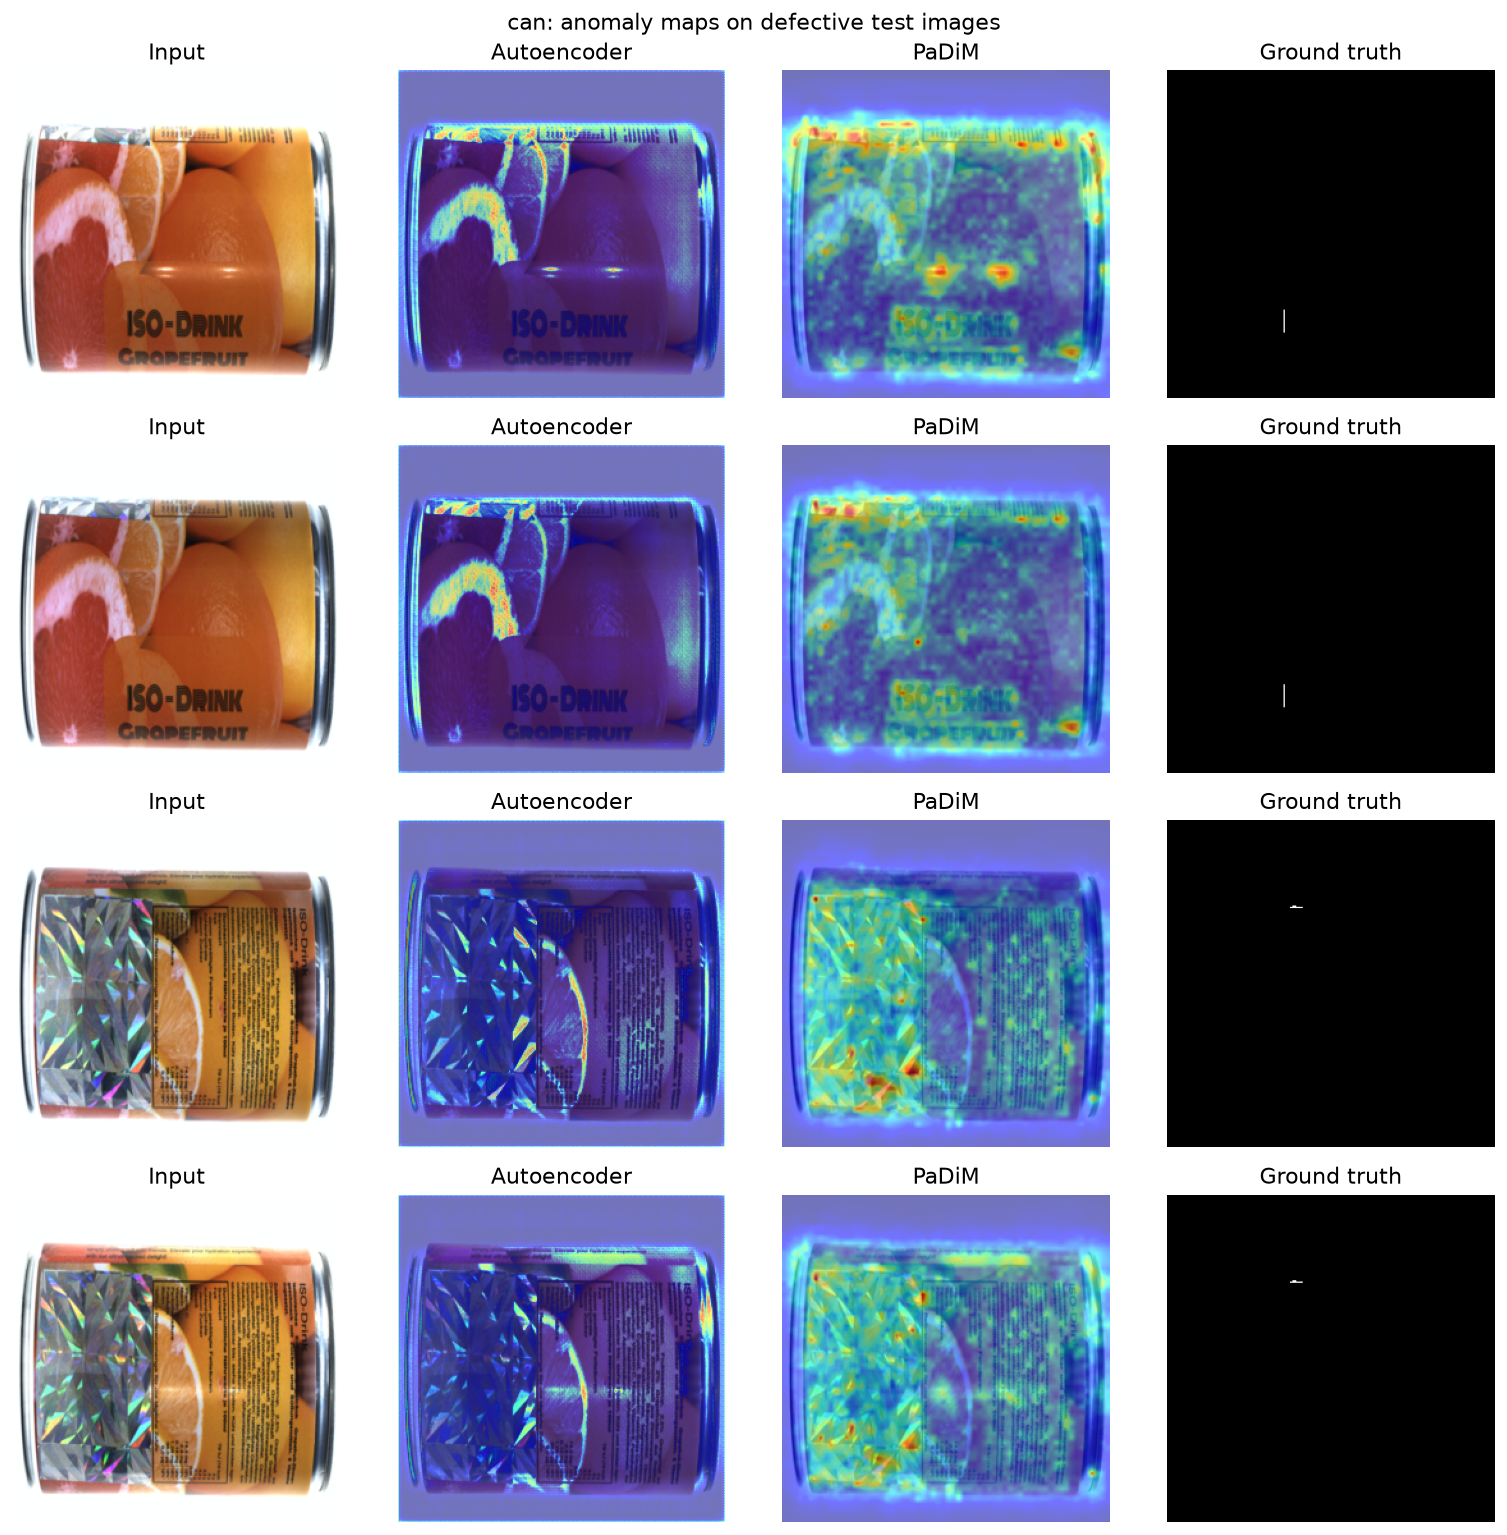
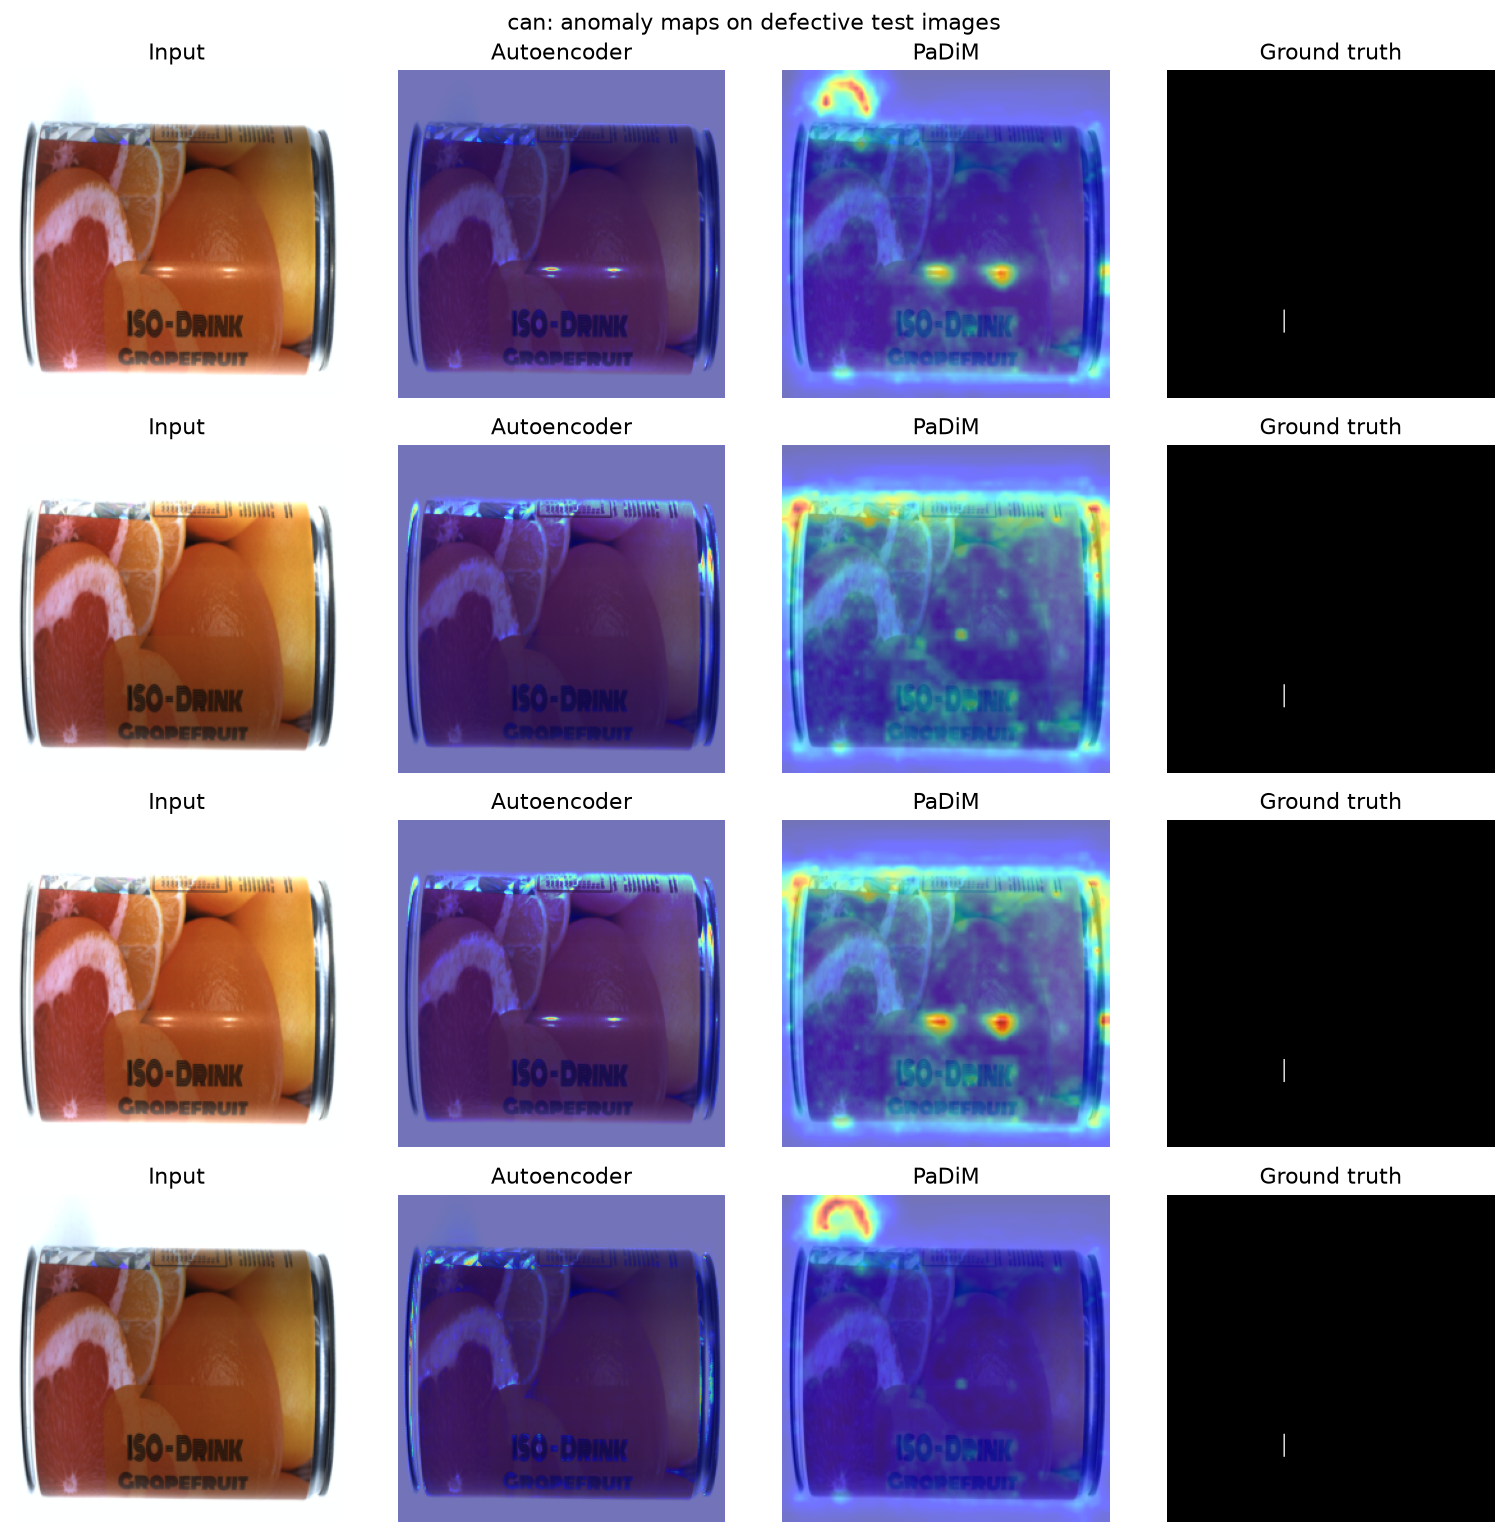
ran full pipeline, updated scores

diff --git a/results/can_results.md b/results/can_results.md
@@ -1,17 +1,17 @@
 # ScanGuard results — can
 
-Mode: **quick slice**, input 256x256, device `cpu`.
-Train / val / test: 64 / 16 / 48 images (24 anomalous).
+Mode: **full data**, input 256x256, device `cpu`.
+Train / val / test: 412 / 46 / 162 images (90 anomalous).
 
 | Metric | Autoencoder | PaDiM |
 |---|---:|---:|
-| Image AUROC | 0.4271 | 0.4635 |
-| Image AUPR | 0.5028 | 0.4537 |
-| Image precision | 0.2941 | 0.3750 |
-| Image recall | 0.2083 | 0.2500 |
-| Image F1 | 0.2439 | 0.3000 |
-| Pixel AUROC | 0.6170 | 0.6789 |
-| AU-PRO (0.30) | 0.1207 | 0.2070 |
-| AU-PRO (0.05) | 0.0170 | 0.0767 |
+| Image AUROC | 0.5252 | 0.4938 |
+| Image AUPR | 0.5548 | 0.5513 |
+| Image precision | 0.5625 | 0.5517 |
+| Image recall | 0.4000 | 0.5333 |
+| Image F1 | 0.4675 | 0.5424 |
+| Pixel AUROC | 0.6926 | 0.7081 |
+| AU-PRO (0.30) | 0.2793 | 0.2272 |
+| AU-PRO (0.05) | 0.0654 | 0.0288 |
 
-Thresholds: autoencoder 10.9186, PaDiM 77.3383 (99th percentile of defect-free validation scores).
+Thresholds: autoencoder 8.4895, PaDiM 48.2573 (99th percentile of defect-free validation scores).
